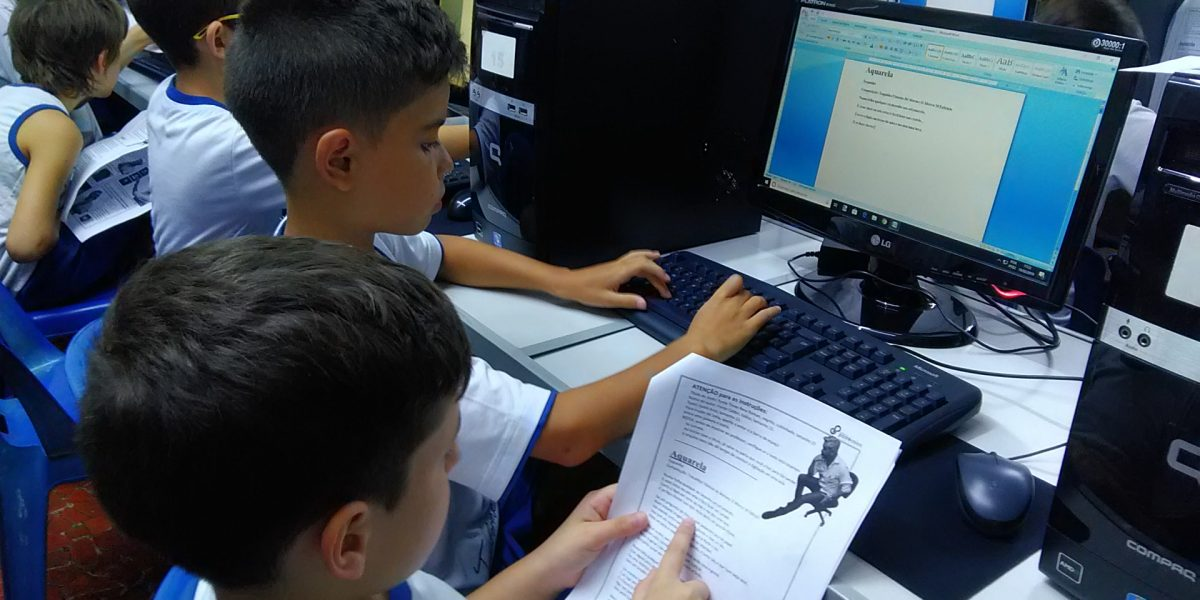
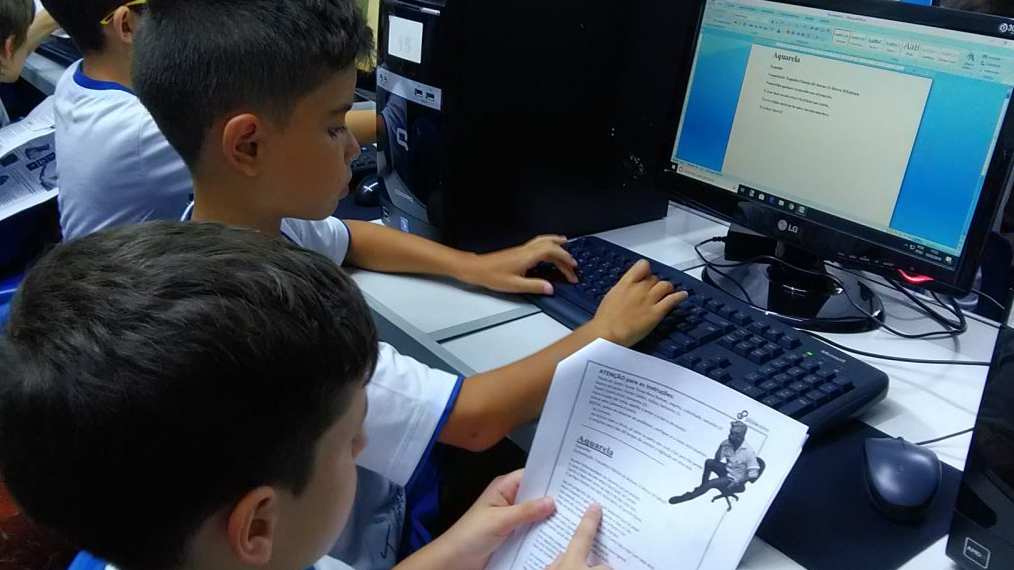
alteracoes solicitadas
-cortei as fotos (ações) para ficarem na mesma propoção
- adicionei o link do site do ifsp no footer (tem que colocar o do site do pet tb qnd tiver pronto)
-adicionei o hover para colocar as coisas em negrito
-fiz a padronização das cores, fontes e bordas das seções (exceto contato)
- alterei o css de ações para flex e usei porcentagens para facilitar a responsividade, tambem tirei a animação e sombreamento e coloquei uma borda

diff --git a/src/paginas/4-Acoes/acoes.js b/src/paginas/4-Acoes/acoes.js
@@ -1,7 +1,7 @@
 import React from "react";
 import img_aula from '../../componentes/Card_Acoes/aula_informatica.jpg';
 import Card from '../../componentes/Card_Acoes/card';
-import img_palestra from '../../componentes/Card_Acoes/palestra.jpeg';
+import img_palestra from '../../componentes/Card_Acoes/palestra.jpg';
 import img_visita from '../../componentes/Card_Acoes/visita_tecnica.jpg';
 import "./acoes.css";
 
@@ -15,19 +15,19 @@ export default function Acoes() {
                     <Card
                         title='Aulas de Informática'
                         imageUrl={img_aula}
-                        body='&nbsp;&nbsp;&nbsp;&nbsp;&nbsp;No curso de informática, os alunos aprendem desde a fazer tarefas básicas, como ligar o computador, manusear o mouse e escrever com o teclado, até em mexer em softwares específicos, como o browser e aplicativos do LibreOffice.'
+                        body='&nbsp;&nbsp;&nbsp;No curso de informática, os alunos aprendem desde a fazer tarefas básicas, como ligar o computador, manusear o mouse e escrever com o teclado, até em mexer em softwares específicos, como o browser e aplicativos do LibreOffice.'
                     />
 
                     <Card
                         title='Visita Técnica'
                         imageUrl={img_visita}
-                        body='&nbsp;&nbsp;&nbsp;&nbsp;&nbsp;Na visita técnica, é marcada uma data para que os alunos bolsistas e voluntários façam uma visita técnica à APAE para conhecer o espaço e o trabalho desenvolvido nesta instituição.'
+                        body='&nbsp;&nbsp;&nbsp;Na visita técnica, é marcada uma data para que os alunos bolsistas e voluntários façam uma visita técnica à APAE para conhecer o espaço e o trabalho desenvolvido nesta instituição.'
                     />
 
                     <Card
                         title='Palestra'
                         imageUrl={img_palestra}
-                        body='&nbsp;&nbsp;&nbsp;&nbsp;Na palestra é convidado um um profissional da APAE para ministrar uma palestra no IFSP sobre as pessoas com deficiência intelectual.'
+                        body='&nbsp;&nbsp;&nbsp;Na palestra é convidado um um profissional da APAE para ministrar uma palestra no IFSP sobre as pessoas com deficiência intelectual.'
                     />
                 </div>
             </div>

diff --git a/src/paginas/1-Projeto/projeto.js b/src/paginas/1-Projeto/projeto.js
@@ -15,11 +15,11 @@ export default function Projeto(){
                 </div>
                 
                 <div className="descricao-projeto">
-                    <p>A ideia do projeto surgiu após a professora Célia, docente do IFSP, atuar como voluntária em um evento beneficiente para levantar fundos à APAE no segundo semestre de 2016.
+                    <p>&nbsp;&nbsp;&nbsp;&nbsp;&nbsp;A ideia do projeto surgiu após a professora Célia, docente do IFSP, atuar como voluntária em um evento beneficiente para levantar fundos à APAE no segundo semestre de 2016.
                         Desde então, após visitas e conversas com os coordenadores da APAE, nasce o projeto de dar aulas de informática para os alunos.
                     </p>
 
-                    <p>O objetivo geral é proporcionar a pessoas com deficiência intelectual a familiarização e o aprimoramento de conhecimentos em informática,
+                    <p>&nbsp;&nbsp;&nbsp;O objetivo geral é proporcionar a pessoas com deficiência intelectual a familiarização e o aprimoramento de conhecimentos em informática,
                         contribuindo para a sua inclusão digital e, consequentemente, sua inclusão social. Não somente o projeto tem auxiliado na inserção no mercado de trabalho,
                         mas também tem melhorado a autoestima dos alunos. O empreedimento em parceria com o IFSP e a APAE tem sido divulgado em diversos congressos e em revistas,
                         como a do Napne.

diff --git a/src/componentes/Card_Acoes/card.css b/src/componentes/Card_Acoes/card.css
@@ -1,51 +1,45 @@
 .card-container {
+    display: flex;
+    flex-direction: column;
     background-color: white;
-    width: 300px;
+    width: 25%;
+    height: 100%;
     overflow: hidden;
-    box-shadow: 0px 0px 15px -5px;
-    transition: 0.3s;
-    animation: ease-in;
-    margin-left: 8%;
-    border-radius: 30px;
-}
-
-.card-container:hover {
-    transform: scale(1.02);
-    box-shadow: 0px 0px 15px 0px;
+    border: 2px rgba(0, 128, 0, 0.473) solid;
+    border-radius: 5%;
 }
 
 .image-container {
-    overflow: inherit;
-    height: 200px;
     display: flex;
-    flex-direction: column;
 }
 
 .imgcard {
-    width: 253px;
-    height: 212px;
-    border-radius: 10%;
+    width: 90%;
+    height: 90%;
+    border-radius: 5%;
     align-items: center;
-    box-sizing: border-box;
-    margin: 24px;
+    margin: 5%;
 }
 
 .card-content {
-    margin-top: 1rem;
-    margin-left: 1rem;
-    margin-right: 1rem;
+    margin-top: 1%;
+    margin-left: 6%;
+    margin-right: 6%;
 }
 
 .titulo-card {
     text-align: center;
+    font-weight: bold;
 }
 
 .paragrafo-card {
-    margin: 10px;
-    padding-bottom: 20px;
+    margin: 1%;
+    padding-bottom: 5%;
     text-align: justify;
+    font-size: 1.3vw;
+
 }
 
 .card-title {
-    margin-bottom: 0.5rem;
+    margin-bottom: 1%;
 }

diff --git a/src/componentes/layout/Footer/Footer.module.css b/src/componentes/layout/Footer/Footer.module.css
@@ -10,7 +10,7 @@
     background-color: white;
   }
 
-.list {
+.list{
     display: flex;
     align-items: center;
     justify-content: center;
@@ -27,17 +27,43 @@
     color: gray;
 }
 
+.item button:hover{
+    font-weight: bold;
+}
+
 .paragrafo {
     font-family: 'Trebuchet MS', sans-serif;
     display: flex;
     align-items: flex-end;
     font-size: small;
     text-align: center;
-    height: 10px;
-    margin-top: 10px;
-    margin-bottom: 10px;
     margin-block-start: auto;
-    margin-left: 2.5%;
     font-family: Arial;
     color: gray;
+}
+
+.textofooter{
+    display: flex;
+    flex-direction: row;
+    align-items: center;
+    height: 10px;
+    margin-top: 5px;
+    margin-bottom: 10px;
+}
+
+.linkifsp{
+    font-family: 'Trebuchet MS', sans-serif;
+    font-size: small;
+    text-decoration: none;
+    color: gray;
+}
+
+.linkifsp:hover{
+    font-weight: bold;
+}
+
+.navfooter{
+    display: flex;
+    align-items: center;
+    margin-left: -2.5%;
 }

diff --git a/src/componentes/layout/Footer/Footer.js b/src/componentes/layout/Footer/Footer.js
@@ -4,7 +4,7 @@ import styles from "./Footer.module.css"
 function Footer({ scrollToSection }) {
   return (
     <div className={styles.footer}>
-      <nav className="Footer">
+      <nav className={styles.navfooter}>
         <ul className={styles.list}>
           <li className={styles.item}>
             <button onClick={() => scrollToSection("home")}>Home</button>
@@ -29,7 +29,10 @@ function Footer({ scrollToSection }) {
           </li>
         </ul>
       </nav>
-      <p className={styles.paragrafo}>Desenvolvido com ♥ por PET/ADS @ IFSP São Carlos</p>
+      <div className={styles.textofooter}>
+        <p className={styles.paragrafo}>Desenvolvido com ♥ por PET/ADS @ </p>
+        <a className={styles.linkifsp} href='https://portais.ifsp.edu.br/scl/'>IFSP São Carlos</a>
+      </div>
     </div>
   );
 }

diff --git a/src/paginas/Home/home.css b/src/paginas/Home/home.css
@@ -43,7 +43,7 @@
 }
 
 .button-home{
-    font-family:'Franklin Gothic Medium', 'Arial Narrow', Arial, sans-serif;
+    font-family:'Trebuchet MS', 'Lucida Sans Unicode', 'Lucida Grande', 'Lucida Sans', Arial, sans-serif;
     font-size: 1.2vw;
     font-weight: bold;
     line-height: 3vw;
@@ -55,11 +55,15 @@
     color: #fff;
     background-position: 0% 0%;
     padding: 1% 2% 1% 2%;    
-
+    padding: 12px 24px;
+    border: none;
+    border-radius: 5px;
+    font-size: 16px;
+    text-decoration: none;
+    transition: background-color 0.3s ease;
     cursor: pointer;
-    transition: background-color 0.3s ease-in-out;
 }
 
 .button-home:hover {
-    background-color: #1f6853;
+    background-color: #0f3100;
 }

diff --git a/src/paginas/4-Acoes/acoes.css b/src/paginas/4-Acoes/acoes.css
@@ -1,11 +1,10 @@
 .acoes-container {
-    min-height: 68vh;
+    display: flex;
+    flex-direction: column;
     width: auto;
     background-color: white;
     padding-top: 3%;
-    padding-bottom: 3%;
-    padding-left: 4%;
-    padding-right: 4%;
+    padding-bottom: 7%;
   }
   
   .cards-container-geral {
@@ -28,8 +27,9 @@
   
   .cards-container {
     display: flex;
-    flex-wrap: nowrap;
+    flex-direction: row;
     width: 100%;
-    margin: 0 auto;
-    padding: 0 5px;
+    justify-content: space-evenly;
+    align-items: flex-start;
+    font-family:'Trebuchet MS', 'Lucida Sans Unicode', 'Lucida Grande', 'Lucida Sans', Arial, sans-serif;
   }

diff --git a/src/componentes/Card_Acoes/card.js b/src/componentes/Card_Acoes/card.js
@@ -20,39 +20,3 @@ function Card({title,imageUrl,body}){
 }
 
 export default Card;
-
-
-/*<div className="btn">
-<button>
-<a>
-    View More
-</a>
-</button>
-</div>
-
-.btn{
-    display: flex;
-    justify-content: center;
-}
-
-.btn button{
-    padding: 0.5rem;
-    background-color: aqua;
-    border: none;
-    transition: 0.2s;
-    margin-bottom: 0.5rem;
-    text-transform: uppercase;
-}
-
-.btn:hover{
-    background-color: rgba(27, 156, 252, 0.1);
-    transform: scale(1.1);
-}
-
-a{
-    text-transform: uppercase;
-    color: blueviolet;
-    text-decoration: none;
-    font-weight: bold;
-
-}*/

diff --git a/src/paginas/1-Projeto/projeto.css b/src/paginas/1-Projeto/projeto.css
@@ -16,16 +16,15 @@
     text-transform: uppercase;
     font-size: 2.5vw; 
     display: block;
-    text-align: left;
+    text-align: center;
     font-weight: lighter;
     color: black;
     padding-top: 5px;
     padding-bottom: 5px;
-    padding-left: 8%;
 }
 
 .descricao-projeto{
-    font-family:Cambria, Cochin, Georgia, Times, 'Times New Roman', serif;
+    font-family:'Trebuchet MS', 'Lucida Sans Unicode', 'Lucida Grande', 'Lucida Sans', Arial, sans-serif;
     font-size: 1.3vw;
     line-height: 1.8vw;
     text-align: left;

diff --git a/src/paginas/5-Blog/blog.css b/src/paginas/5-Blog/blog.css
@@ -26,7 +26,7 @@ section.blog-container {
 }
 
 .paragrafo-blog {
-    font-family:'Gill Sans', 'Gill Sans MT', Calibri, 'Trebuchet MS', sans-serif;
+    font-family:'Trebuchet MS', 'Lucida Sans Unicode', 'Lucida Grande', 'Lucida Sans', Arial, sans-serif;
     font-size: 1.2vw;
     word-spacing: 0.2vw;
     color: black;

diff --git a/src/paginas/3-Equipe/equipe.css b/src/paginas/3-Equipe/equipe.css
@@ -9,11 +9,10 @@
     text-transform: uppercase;
     font-size: 2.5vw; 
     display: block;
-    text-align: left;
+    text-align: center;
     color: black;
     padding-top: 5px;
     padding-bottom: 5px;
-    padding-left: 4%;
 }
 
 .equipe-container {

diff --git a/src/paginas/2-Turmas/turmas.css b/src/paginas/2-Turmas/turmas.css
@@ -9,10 +9,9 @@
     text-transform: uppercase;
     font-size: 2.5vw; 
     display: block;
-    text-align: left;
+    text-align: center;
     color: black;
     padding-top: 5px;
     padding-bottom: 5px;
-    padding-left: 8%;
 }
 
